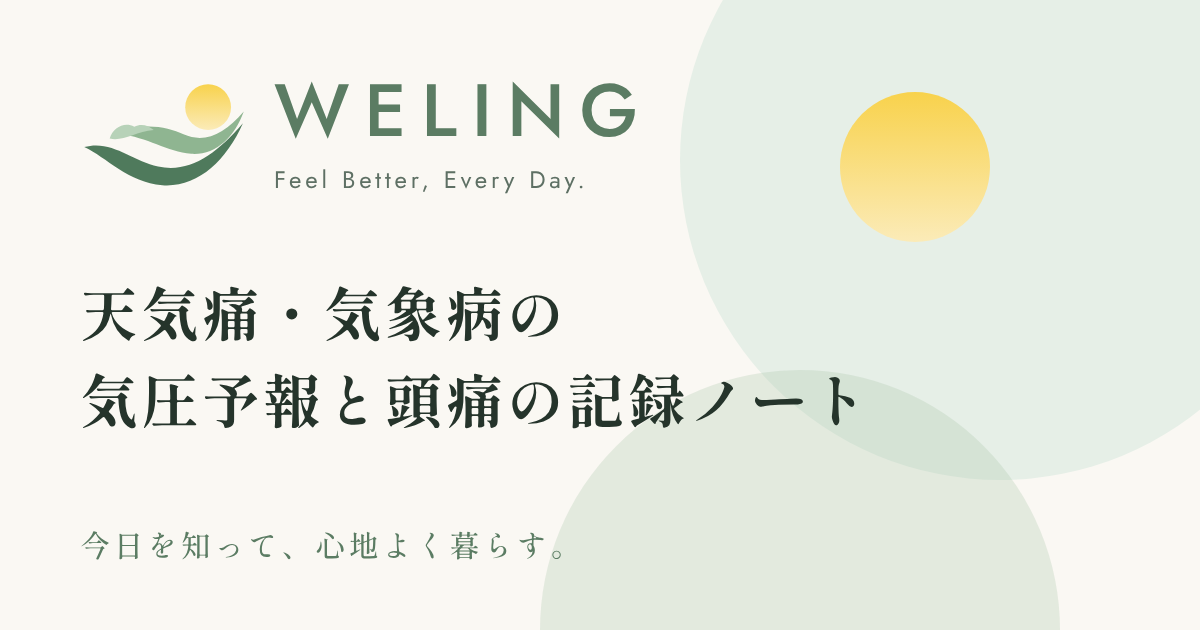
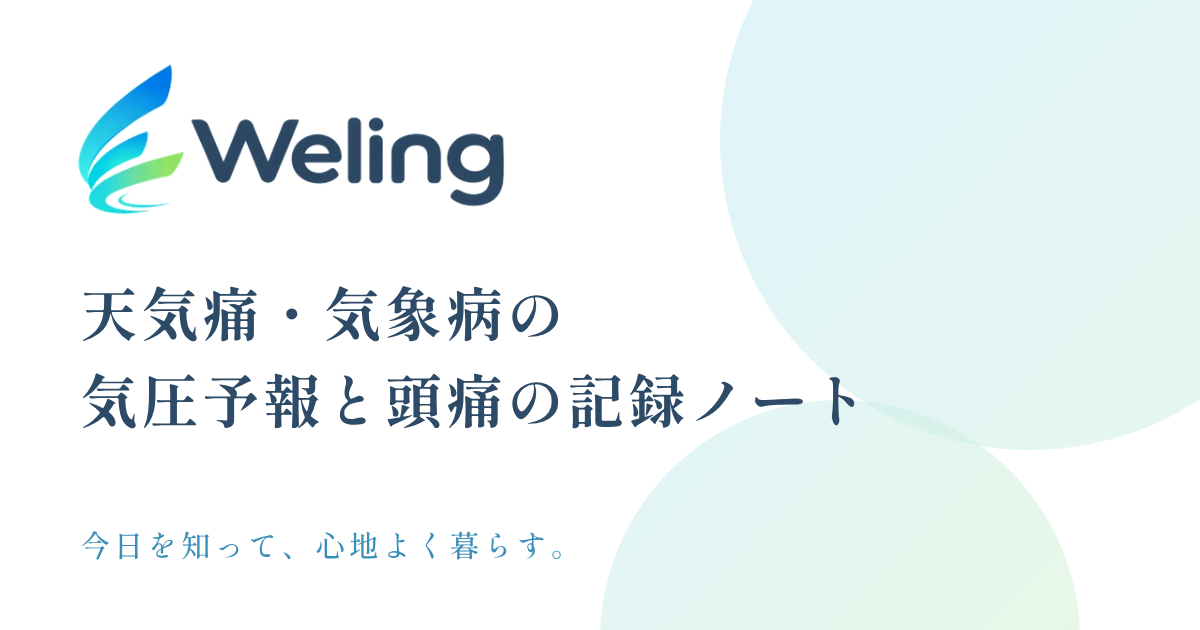
ロゴを新しいロゴ(Weling)に変更(ヘッダー・トップ・フッター・アイコン・manifest・OG画像)。トップの背景写真は変更なし
Claude-Session: https://claude.ai/code/session_01GABYT29VUZzXrt2vySzu7C

diff --git a/src/columns.js b/src/columns.js
@@ -21,7 +21,7 @@ export const COLUMNS = [
       { h: '不調が出やすいと言われる人' },
       { ul: ['乗り物酔いをしやすい人', '片頭痛などの頭痛持ちの人', 'めまいや耳鳴りの経験がある人', '首・肩のこりが強い人', '睡眠不足やストレスで自律神経が乱れやすい人'] },
       { h: '「気圧の変化」とはどのくらい？' },
-      { p: '台風や低気圧、前線が近づいたり、梅雨の時期に天気が崩れたりすると、気圧は大きく動きます。「WELING」では、1時間あたりの気圧の変化量を「上昇注意」「やや注意」「注意」「警戒」の4段階で表示しています。これは体調の変化に気づきやすくするための目安で、医学的な基準ではありません。' },
+      { p: '台風や低気圧、前線が近づいたり、梅雨の時期に天気が崩れたりすると、気圧は大きく動きます。「Weling」では、1時間あたりの気圧の変化量を「上昇注意」「やや注意」「注意」「警戒」の4段階で表示しています。これは体調の変化に気づきやすくするための目安で、医学的な基準ではありません。' },
       { h: '知っておきたい「海面気圧」の話' },
       { p: '天気予報で使われる気圧は、標高の影響を取り除いた「海面気圧」です。お住まいの場所の実際の気圧とは数値が異なりますが、「どのくらい上がったか・下がったか」という変化の傾向は同じように読み取れます。このアプリが見ているのも、数値そのものではなく変化の速さです。' },
       { warn: 'このコラムは一般的な情報です。診断や治療の代わりにはなりません。症状が強い・続く場合は医療機関に相談してください。' },
@@ -46,7 +46,7 @@ export const COLUMNS = [
       { ul: ['夕食は消化のよいものを、食べ過ぎない', 'アルコールやカフェインの摂り過ぎに注意', '朝食を抜かない（当日の朝に備える）', 'こまめに水分をとる'] },
       { h: '5. ぬるめのお風呂でゆっくり温まる' },
       { p: '熱すぎないお湯にゆっくり浸かると、体がほぐれ、リラックスしやすくなります。のぼせや湯冷めには気をつけましょう。' },
-      { note: '体調を記録しておくと、「どのくらいの気圧の変化のとき、自分は不調になりやすいか」が分かってきます。「WELING」の記録・分析機能を活用してください。気圧の変化が大きくなる時期は「[[tenkitsu-season|梅雨・台風・季節の変わり目の気圧パターン]]」も参考になります。' },
+      { note: '体調を記録しておくと、「どのくらいの気圧の変化のとき、自分は不調になりやすいか」が分かってきます。「Weling」の記録・分析機能を活用してください。気圧の変化が大きくなる時期は「[[tenkitsu-season|梅雨・台風・季節の変わり目の気圧パターン]]」も参考になります。' },
     ],
   },
   {
@@ -99,12 +99,12 @@ export const COLUMNS = [
   {
     slug: 'how-to-use-app',
     emoji: '📈',
-    title: '「WELING」の使い方：気圧の予報と頭痛の記録で、自分の傾向を知る',
+    title: '「Weling」の使い方：気圧の予報と頭痛の記録で、自分の傾向を知る',
     summary: '気圧の予報をチェックし、頭痛などの体調を記録すると、天気痛・気象病の不調が出やすい条件が見えてきます。アプリの活かし方を紹介します。',
     keywords: ['気圧', '頭痛', '天気痛', '気象病', '気圧予報'],
     readMin: 3,
     blocks: [
-      { p: '「WELING」は、気圧の変化を先回りで知り、頭痛などの体調を記録して、天気痛・気象病の自分の傾向を見つけるためのサービスです。' },
+      { p: '「Weling」は、気圧の変化を先回りで知り、頭痛などの体調を記録して、天気痛・気象病の自分の傾向を見つけるためのサービスです。' },
       { h: '気圧の変化は4段階で表示' },
       { p: '気圧の1時間あたりの変化量に応じて、グラフの背景色とアイコンで知らせます。' },
       { ul: ['上昇注意：1時間に +1.0hPa 以上の上昇', 'やや注意：1時間に −0.5〜−1.0hPa の低下', '注意：1時間に −1.0〜−1.5hPa の低下', '警戒：1時間に −1.5hPa 以上の急な低下'] },
@@ -136,7 +136,7 @@ export const COLUMNS = [
       { h: '相談先の例' },
       { p: '症状によって、内科、頭痛外来・脳神経内科、耳鼻咽喉科、心療内科など、相談先が異なります。どこにかかればよいか迷うときは、まずはかかりつけ医や内科に相談すると、必要に応じて専門の科を案内してもらえます。気象病・天気痛を専門に扱う外来を設けている医療機関もあります。' },
       { h: '受診のときに役立つこと' },
-      { p: '「いつ・どんな症状が・どのくらいの強さで出たか」「飲んだ薬」「そのときの天気」を伝えると、診察の助けになります。「WELING」の記録は、そのまま見せられる体調メモとして使えます。' },
+      { p: '「いつ・どんな症状が・どのくらいの強さで出たか」「飲んだ薬」「そのときの天気」を伝えると、診察の助けになります。「Weling」の記録は、そのまま見せられる体調メモとして使えます。' },
       { warn: '本コラムは一般的な情報で、診断や治療を目的としたものではありません。最新の情報や個別の判断は、医療機関や、厚生労働省など公的機関の情報で確認してください。' },
     ],
   },
@@ -156,7 +156,7 @@ export const COLUMNS = [
       { note: '頭痛のタイプは、自分で決めつけず、医療機関で診てもらうのがいちばん確実です。ここで紹介しているのは一般的な特徴で、人によって当てはまり方は異なります。' },
       { h: '気圧頭痛かどうか、考えるヒント' },
       { ol: ['頭痛が起きた日の天気や気圧の変化を、あとから見比べてみる', '「天気が崩れる前」「低気圧が通過している間」など、起きるタイミングに共通点があるか', '寝不足・飲酒・月経・空腹など、ほかの引き金が重なっていないか', '数回ではなく、数週間〜数か月分の記録で傾向を見る'] },
-      { p: '「WELING」では、記録した頭痛と、そのときの気圧・6時間前との差を一緒に見返せます（[[headache-diary|頭痛ダイアリーのつけ方]]も参考にしてください）。気圧の下がり始めに頭痛が出やすいかどうかを、自分の記録で確かめてみましょう。' },
+      { p: '「Weling」では、記録した頭痛と、そのときの気圧・6時間前との差を一緒に見返せます（[[headache-diary|頭痛ダイアリーのつけ方]]も参考にしてください）。気圧の下がり始めに頭痛が出やすいかどうかを、自分の記録で確かめてみましょう。' },
       { h: '気圧頭痛のときにできること' },
       { ul: ['痛みが軽いうちに休む、静かで暗い場所で過ごす', 'ズキズキするときは冷やす、こりが強いときは温める（悪化するならやめる）', '市販薬は用法・用量を守り、月に10日以上使うようなら医療機関へ'] },
       { p: '詳しくは「[[when-it-hurts|気圧で頭痛・不調を感じたら：その場でできるセルフケア]]」もご覧ください。' },
@@ -175,7 +175,7 @@ export const COLUMNS = [
       { h: '梅雨：ゆるやかな低気圧が長く続く' },
       { p: '梅雨前線が停滞する時期は、気圧の低い状態が続きやすく、湿度も高くなります。急な変化より「だらだらと続く不調」になりやすいと言われます。蒸し暑さによる睡眠の質の低下、冷房による冷えが重なることもあるため、室温や寝具の調整も大切です。' },
       { h: '台風：短時間で大きく下がる' },
-      { p: '台風が近づくと、数日かけて気圧が下がり、接近・通過で一気に変動することがあります。「WELING」の「注意」「警戒」の表示が出やすいのも、こうしたときです。通知や週間天気で数日前から様子を見て、前日の準備を始めましょう。' },
+      { p: '台風が近づくと、数日かけて気圧が下がり、接近・通過で一気に変動することがあります。「Weling」の「注意」「警戒」の表示が出やすいのも、こうしたときです。通知や週間天気で数日前から様子を見て、前日の準備を始めましょう。' },
       { h: '秋・春：低気圧と高気圧が入れ替わる' },
       { p: '春や秋は、低気圧と高気圧が数日おきに通り過ぎ、気圧が上がったり下がったりを繰り返します。気圧だけでなく気温差も大きく、体が休まりにくい時期です。気圧が「上がる」ときも変化は変化なので、「上昇注意」のときに不調が出る人もいます。' },
       { h: '冬：寒さと気圧の変化の両方' },
@@ -195,12 +195,12 @@ export const COLUMNS = [
     blocks: [
       { p: '天気痛・気象病の頭痛は、「いつもなんとなく気圧のせい」と思っていても、実際には睡眠や疲れなどほかの要因が大きいこともあります。気圧の変化と頭痛を記録して見比べる「頭痛ダイアリー」は、自分の傾向を知るのに役立ちます。' },
       { h: '残しておきたい項目' },
-      { ul: ['日時：いつ起きたか、どのくらい続いたか', '痛みの強さ：5段階など、自分で決めた目安で', '症状：頭痛のほか、めまい・吐き気・だるさ・肩こりなど', '飲んだ薬：名前と時刻、効いたかどうか', '気圧と天気：「WELING」では記録時の気圧と6時間前との差が自動で付きます', 'ほかの要因：睡眠時間、飲酒、月経、空腹、強いストレスなど'] },
+      { ul: ['日時：いつ起きたか、どのくらい続いたか', '痛みの強さ：5段階など、自分で決めた目安で', '症状：頭痛のほか、めまい・吐き気・だるさ・肩こりなど', '飲んだ薬：名前と時刻、効いたかどうか', '気圧と天気：「Weling」では記録時の気圧と6時間前との差が自動で付きます', 'ほかの要因：睡眠時間、飲酒、月経、空腹、強いストレスなど'] },
       { h: '続けるコツ' },
       { ul: ['完璧を目指さず、「痛みの強さ」と「日時」だけでも残す', '軽い不調も記録する（強い痛みだけだと傾向が見えにくい）', '気づいたその場で、スマートフォンから数タップで済ませる'] },
       { h: '見返すときのポイント' },
       { ol: ['気圧が下がっている最中か、下がり始めか、下がったあとか', '同じような気圧の変化でも、起きる日と起きない日の違いは何か', '睡眠不足など、気圧以外が重なっている日が多くないか', '月単位で見て、痛む日が増えていないか'] },
-      { p: '「WELING」の分析では、記録が5件以上たまると、「気圧が3時間で1hPa以上下がったときに不調が起きやすいか」などの傾向を簡易的に表示します。あくまで目安として使ってください。' },
+      { p: '「Weling」の分析では、記録が5件以上たまると、「気圧が3時間で1hPa以上下がったときに不調が起きやすいか」などの傾向を簡易的に表示します。あくまで目安として使ってください。' },
       { h: '受診のときに役立つ' },
       { p: '診察では、「いつ・どんな頭痛が・どのくらいの強さで・何日続くか」「飲んだ薬」が重要な手がかりになります。記録をそのまま見せると、説明が伝わりやすくなります。受診の目安は「[[when-to-see-doctor|気圧頭痛・天気痛、こんなときは受診を]]」をご覧ください。' },
       { warn: '記録の傾向だけで、病気の診断や薬の調整を自分で判断しないでください。気になる変化があるときは、医療機関に相談しましょう。' },
@@ -244,7 +244,7 @@ export const COLUMNS = [
       { note: 'ここに挙げたのは一般的な目安です。実際の診療体制は医療機関によって異なるため、受診前に確認すると安心です。' },
       { h: '受診前に準備しておくと役立つこと' },
       { ul: ['いつ、どんな症状が、どのくらいの強さで出たか', '飲んだ薬の名前と、効いたかどうか', '症状が出たときの天気や気圧の変化', 'ほかに持病や、普段飲んでいる薬があるか'] },
-      { p: '[[headache-diary|頭痛ダイアリー]]のように記録しておくと、診察の場で説明しやすくなります。「WELING」の記録には、そのときの気圧と6時間前との差が自動で付くので、そのまま見せられます。' },
+      { p: '[[headache-diary|頭痛ダイアリー]]のように記録しておくと、診察の場で説明しやすくなります。「Weling」の記録には、そのときの気圧と6時間前との差が自動で付くので、そのまま見せられます。' },
       { warn: '「突然の、経験したことのない激しい頭痛」「ろれつが回らない」「手足に力が入らない」などのときは、診療科を選ぶ前に、救急車（119番）の利用も含めて、すぐに受診してください。詳しくは[[when-to-see-doctor|気圧頭痛・天気痛、こんなときは受診を]]をご覧ください。' },
     ],
   },
@@ -305,7 +305,7 @@ export const COLUMNS = [
       { ul: ['眠気・だるさ：無理せず休む、朝は光を浴びる、軽く体を動かす', 'めまい・ふらつき：転倒しないよう、いったん座るか横になる。急に立ち上がらない', '吐き気：水分を少しずつとる、静かに休む', '首・肩のこり：温めて、軽くストレッチする'] },
       { p: '頭痛も含めて、[[when-it-hurts|その場でできるセルフケア]]や、[[daily-habits|毎日の生活習慣]]を整えることが役立つことがあります。' },
       { h: '記録して、自分のパターンを知る' },
-      { p: '症状が出た日の気圧の動きを記録しておくと、「気圧が下がり始めた頃に眠くなる」など、自分の傾向が見えてきます。「WELING」では、頭痛以外の症状もタグで記録できます。' },
+      { p: '症状が出た日の気圧の動きを記録しておくと、「気圧が下がり始めた頃に眠くなる」など、自分の傾向が見えてきます。「Weling」では、頭痛以外の症状もタグで記録できます。' },
       { warn: 'めまいが繰り返す、耳鳴りや聞こえにくさがある、ろれつが回らない、手足に力が入らない、といったときは、気象病と決めつけず、医療機関を受診してください。目安は[[when-to-see-doctor|気圧頭痛・天気痛、こんなときは受診を]]をご覧ください。' },
     ],
   },
@@ -325,7 +325,7 @@ export const COLUMNS = [
       { ul: ['古傷（過去のけがや手術の跡）の痛み・うずき', '膝・肩・腰などの関節の痛みや、こわばり', '首・肩のこり', '神経の痛みや、しびれのような感覚'] },
       { h: 'できること' },
       { ul: ['痛みの出る部位を、無理のない範囲で温める、またはやさしくほぐす', '気圧が下がる前日は、無理な運動や予定を控えめにする（[[day-before|前日にできる5つの準備]]）', '痛みが出た日の天気・気圧と、痛む部位を記録する'] },
-      { p: '記録は、[[headache-diary|頭痛ダイアリー]]と同じ要領で、「痛む部位」「強さ」「そのときの気圧」を残すと、傾向が見えてきます。「WELING」では、メモ欄に部位を書いておくこともできます。' },
+      { p: '記録は、[[headache-diary|頭痛ダイアリー]]と同じ要領で、「痛む部位」「強さ」「そのときの気圧」を残すと、傾向が見えてきます。「Weling」では、メモ欄に部位を書いておくこともできます。' },
       { warn: '痛みが強い、腫れや熱がある、夜も眠れない、しびれや力が入らない症状があるときは、天気のせいと決めつけず、整形外科などの医療機関に相談してください。' },
     ],
   },
@@ -343,7 +343,7 @@ export const COLUMNS = [
       { h: '2. 前線が通過するパターン' },
       { p: '暖かい空気と冷たい空気の境目である前線が通ると、雨が降りやすく、気圧も変化します。梅雨前線や秋雨前線のように前線が停滞すると、気圧の低い状態や、小刻みな変化が続きます。こうしたときは、急な変化より「だらだら続く不調」になりやすいと言われます。詳しくは[[tenkitsu-season|梅雨・台風・季節の変わり目の気圧パターン]]をご覧ください。' },
       { h: '3. 台風・急速に発達する低気圧のパターン' },
-      { p: '台風や、短時間で急速に発達する低気圧は、気圧が数時間から1日のうちに大きく下がることがあります。「WELING」の「注意」「警戒」が表示されやすいのも、このパターンのときです。[[typhoon-headache|台風が近づくと頭痛がするのはなぜ？]]もあわせてご覧ください。' },
+      { p: '台風や、短時間で急速に発達する低気圧は、気圧が数時間から1日のうちに大きく下がることがあります。「Weling」の「注意」「警戒」が表示されやすいのも、このパターンのときです。[[typhoon-headache|台風が近づくと頭痛がするのはなぜ？]]もあわせてご覧ください。' },
       { h: '4. 高気圧と低気圧が入れ替わるパターン' },
       { p: '春や秋は、移動性高気圧と低気圧が数日おきに日本付近を通ります。そのため、気圧が上がったり下がったりを繰り返し、気温差も大きくなります。気圧が「上がる」ときも変化の大きさは同じなので、「上昇注意」のときに不調が出る人もいます。' },
       { h: '日常にもある小さな気圧の変化' },

diff --git a/src/pages.js b/src/pages.js
@@ -10,7 +10,7 @@ import { PREFS, REGIONS, regionOf, neighbors } from './prefectures.js';
 export const esc = (s) => String(s).replace(/[&<>"']/g, (c) => ({ '&': '&amp;', '<': '&lt;', '>': '&gt;', '"': '&quot;', "'": '&#39;' })[c]);
 
 const SITE = SITE_NAME;
-const SITE_TITLE = 'WELING'; // <title>・og:site_name・構造化データのサイト名(表示上のロゴ・本文は「WELING」)
+const SITE_TITLE = 'Weling'; // <title>・og:site_name・構造化データのサイト名(表示上のロゴ・本文は「Weling」)
 const TAGLINE = '気圧と体調のノート';
 // トップのHERO背景をランダムに選ぶ（描画前に実行）。直前に見たものとは別の写真にする。?hero=0|1|2 で固定表示も可能。
 // 写真ごとに、文字が読めるよう暗いオーバーレイの色・濃さ(a=[上,中,下])と、画面に見せたい位置(p)を設定している。
@@ -67,7 +67,7 @@ const STREET_SCRIPT = `<script>
 })();
 </script>`;
 
-const LOGO = '<span class="ln"><b>WELING</b><small>Feel Better, Every Day.</small></span>';
+const LOGO = '<img class="logo-img" src="/logo-h.webp" alt="Weling" width="102" height="36">';
 
 const NAV = [
   ['/', 'トップ', 'top'],
@@ -107,8 +107,8 @@ ${page === 'none' ? '<meta name="robots" content="noindex">\n' : ''}${jsonLd(jso
 <link rel="preconnect" href="https://fonts.googleapis.com">
 <link rel="preconnect" href="https://fonts.gstatic.com" crossorigin>
 ${chrome ? DS_FONTS : TOP_FONTS}
-<link rel="icon" href="/icon.svg" type="image/svg+xml">
 <link rel="icon" href="/favicon-32.png" sizes="32x32" type="image/png">
+<link rel="icon" href="/icon-192.png" sizes="192x192" type="image/png">
 <link rel="apple-touch-icon" href="/apple-touch-icon.png">
 <link rel="manifest" href="/manifest.json">
 ${chrome ? '<link rel="stylesheet" href="/ds.css">\n<link rel="stylesheet" href="/header.css">\n' : ''}<link rel="stylesheet" href="/site.css">
@@ -118,7 +118,7 @@ ${chrome ? '<link rel="stylesheet" href="/ds-pages.css">\n' : ''}${extraHead}
 <body data-page="${page}" class="${[chrome ? 'ds' : '', bodyClass].filter(Boolean).join(' ')}">
 ${chrome ? `<header class="site-h">
   <div class="wrap h-in">
-    <a class="logo" href="/" aria-label="WELING トップへ"><img src="/mark.svg" alt="" width="54" height="36">${LOGO}</a>
+    <a class="logo" href="/" aria-label="Weling トップへ">${LOGO}</a>
     ${page === 'app' ? '<span id="demoBadge" class="badge" hidden>デモデータ</span>' : ''}
   </div>
   <nav class="wrap nav" aria-label="メインメニュー">
@@ -132,7 +132,7 @@ ${body}
 ${chrome ? `<footer class="site-f">
   <div class="street" data-street aria-hidden="true"></div>
   <div class="wrap">
-    <p class="f-logo">WELING</p>
+    <p class="f-logo"><img src="/logo-h-white.webp" alt="Weling" width="114" height="40"></p>
     <p>本サービスの気圧データは海面気圧の変動傾向を示す目安であり、絶対値の保証や医学的な診断を提供するものではありません。</p>
     <p><a href="/terms.html">利用規約・プライバシー</a> ・ <a href="/about">サービス紹介</a> ・ <a href="/columns">コラム</a> ・ <a href="/weather">週間天気</a> ・ <a href="/today">今日の気圧</a> ・ <a href="/pressure">都道府県別の気圧</a> ・ <a href="/check">気象病セルフチェック</a> ・ <a href="/glossary">用語集</a> ・ <a href="/app/">気圧・記録</a></p>
     <p class="muted">天気: 気象庁 / OpenWeatherMap　© ${SITE}</p>
@@ -176,7 +176,7 @@ export function topPage() {
 <div class="stage">
   <aside class="side" aria-label="サイト紹介">
     <div class="side-top">
-      <a class="side-logo" href="/" aria-label="WELING トップへ"><img src="/mark-white.svg" alt="" width="126" height="84"><span class="brand-ln"><b>WELING</b><small>Feel Better, Every Day.</small></span></a>
+      <a class="side-logo" href="/" aria-label="Weling トップへ"><img src="/logo-h-white.webp" alt="Weling" width="199" height="70"></a>
       <p class="side-title" aria-hidden="true">気圧の変化を、<br>先回りで知る。</p>
     </div>
     <div class="side-copy">
@@ -199,11 +199,9 @@ export function topPage() {
   <div class="phone" id="phone">
     <section class="m-hero" aria-labelledby="hero-title">
       <nav class="m-nav" aria-label="メインメニュー"><a href="/weather">週間天気</a><a href="/columns">コラム</a><a class="m-app" href="/app/">気圧・記録へ</a></nav>
-      <h1 id="hero-title" class="m-title">気圧の変化を、<br>先回りで知る。<span class="sr-only">（WELING：天気痛・気象病の気圧予報と頭痛の記録ノート）</span></h1>
+      <h1 id="hero-title" class="m-title">気圧の変化を、<br>先回りで知る。<span class="sr-only">（Weling：天気痛・気象病の気圧予報と頭痛の記録ノート）</span></h1>
       <div class="m-brand">
-        <img src="/mark-white.svg" alt="" width="84" height="56">
-        <span class="m-word">WELING</span>
-        <span class="m-read">Feel Better, Every Day.</span>
+        <img src="/logo-v-white.webp" alt="Weling" width="143" height="190">
         <span class="m-tag">今日を知って、心地よく暮らす。</span>
       </div>
       <a class="m-scroll" href="#today" aria-label="下へスクロール">SCROLL</a>
@@ -240,7 +238,7 @@ export function topPage() {
     <section class="sx teal" id="features" aria-labelledby="t-three">
       <div class="sx-in">
         ${secHead2('Three Features', '三つの機能', 't-three')}
-        <p class="center-copy">WELINGは、週間天気、気圧・記録、コラムの<br>三つで、気圧との付き合いを支えます。</p>
+        <p class="center-copy">Welingは、週間天気、気圧・記録、コラムの<br>三つで、気圧との付き合いを支えます。</p>
         <a class="feat" href="/weather" style="--img: url('/hero/bg/mist.webp'); --pos: 30% 50%"><span class="en">WEEKLY FORECAST</span><b>週間天気</b><span class="d">1週間の天気と、気圧が下がる日の目安</span></a>
         <a class="feat" href="/app/" style="--img: url('/hero/bg/dusk.webp'); --pos: 41% 40%"><span class="en">PRESSURE &amp; LOG</span><b>気圧・記録</b><span class="d">気圧グラフに、体調の記録を重ねて見る</span></a>
         <a class="feat" href="/columns" style="--img: url('/hero/bg/sea.webp'); --pos: 58% 58%"><span class="en">COLUMN</span><b>コラム</b><span class="d">天気痛・気象病・気圧頭痛の対策</span></a>
@@ -284,7 +282,7 @@ export function topPage() {
         ${person('suitcase', { k: 0.5, cls: 'fig-tr' })}
         ${secHead2('Information', 'サービス情報', 't-info')}
         <dl class="info">
-          <div><dt>サービス名</dt><dd>WELING</dd></div>
+          <div><dt>サービス名</dt><dd>Weling</dd></div>
           <div><dt>できること</dt><dd>気圧の予報、週間天気、体調の記録、傾向の分析、前夜の通知</dd></div>
           <div><dt>データ</dt><dd>天気：気象庁、気圧予報：OpenWeatherMap</dd></div>
           <div><dt>対応地域</dt><dd>全国47都道府県</dd></div>
@@ -307,11 +305,11 @@ export function topPage() {
     </section>
 
     <footer class="lp-f">
-      <p class="f-logo">WELING</p>
+      <p class="f-logo"><img src="/logo-h-white.webp" alt="Weling" width="114" height="40"></p>
       <nav class="lp-f-nav">${footNav}</nav>
       <p>本サービスの気圧データは海面気圧の変動傾向を示す目安であり、絶対値の保証や医学的な診断を提供するものではありません。</p>
       <p><a href="/terms.html">利用規約・プライバシー</a></p>
-      <p class="muted">天気: 気象庁 / OpenWeatherMap　© WELING</p>
+      <p class="muted">天気: 気象庁 / OpenWeatherMap　© Weling</p>
     </footer>
   </div>
 </div>`;
@@ -680,7 +678,7 @@ const ABOUT_FAQ = [
 
 export function aboutPage() {
   const body = `
-<div class="page-head has-ppl"><div class="wrap"><p class="en">ABOUT</p><h1>WELINGとは</h1><p>気圧と体調のノート。天気で揺れる体調を、記録と予報でやさしく支えるWebアプリです。</p></div><div class="pg-ppl" aria-hidden="true">${person('reading', { k: 0.5 })}</div></div>
+<div class="page-head has-ppl"><div class="wrap"><p class="en">ABOUT</p><h1>Welingとは</h1><p>気圧と体調のノート。天気で揺れる体調を、記録と予報でやさしく支えるWebアプリです。</p></div><div class="pg-ppl" aria-hidden="true">${person('reading', { k: 0.5 })}</div></div>
 <div class="wrap about">
 <section><h2 class="en-h">WHAT YOU CAN DO<small>できること</small></h2>
 <div class="ab-verbs">${ABOUT_VERBS.map(([v, en, t, d, ic], i) => `<article class="ab-verb"><span class="ic">${ic}</span><p class="en">${en}</p><h3>${i + 1}. ${esc(v)}</h3><b>${esc(t)}</b><p>${esc(d)}</p></article>`).join('')}</div></section>
@@ -698,7 +696,7 @@ ${ABOUT_SHOTS.map(([n, no, t, d, li], i) => `<div class="ab-shot${i % 2 ? ' rev'
 </div>`;
   return layout({
     rawTitle: `${SITE_TITLE}とは｜天気痛・気象病の気圧予報と頭痛の記録アプリ`,
-    description: 'WELINGは、天気痛・気象病・気圧による頭痛に備える無料のWebアプリ。気圧予報、前日の通知、頭痛や体調の記録と分析の機能、使い方、よくある質問を紹介します。',
+    description: 'Welingは、天気痛・気象病・気圧による頭痛に備える無料のWebアプリ。気圧予報、前日の通知、頭痛や体調の記録と分析の機能、使い方、よくある質問を紹介します。',
     keywords: COLUMN_KEYWORDS,
     page: 'about',
     path: '/about',

diff --git a/public/terms.html b/public/terms.html
@@ -1,8 +1,7 @@
 <!doctype html>
 <html lang="ja"><head><meta charset="utf-8"><meta name="viewport" content="width=device-width, initial-scale=1, viewport-fit=cover">
 <meta name="theme-color" content="#FAF8F3">
-<title>利用規約・プライバシー | WELING</title>
-<link rel="icon" href="/icon.svg" type="image/svg+xml">
+<title>利用規約・プライバシー | Weling</title>
 <link rel="icon" href="/favicon-32.png" sizes="32x32" type="image/png">
 <link rel="apple-touch-icon" href="/apple-touch-icon.png">
 <link rel="preconnect" href="https://fonts.googleapis.com">
@@ -17,7 +16,7 @@
 <body>
 <header class="site-h">
   <div class="wrap h-in">
-    <a class="logo" href="/" aria-label="WELING トップへ"><img src="/mark.svg" alt="" width="54" height="36"><span class="ln"><b>WELING</b><small>Feel Better, Every Day.</small></span></a>
+    <a class="logo" href="/" aria-label="Weling トップへ"><img class="logo-img" src="/logo-h.webp" alt="Weling" width="102" height="36"></a>
     <a class="h-app" href="/app/">気圧・記録へ</a>
   </div>
   <nav class="wrap nav" aria-label="メインメニュー">
@@ -31,7 +30,7 @@
 <div class="card">
 <h1>利用規約・プライバシー</h1>
 <h2>1. サービスの目的</h2>
-<p>WELING（以下「本サービス」）は、公開されている気象データを用いて気圧の変化を表示し、利用者自身による体調の記録・振り返りを支援するものです。</p>
+<p>Weling（以下「本サービス」）は、公開されている気象データを用いて気圧の変化を表示し、利用者自身による体調の記録・振り返りを支援するものです。</p>
 <h2>2. 免責事項</h2>
 <ul>
 <li>オープンAPIの気圧データは、標高や局地的な地形の影響を完全には反映できない場合があります。</li>

diff --git a/public/brand.css b/public/brand.css
@@ -80,3 +80,11 @@ input, select, textarea, .ds select, .ds input, .ds textarea { border-radius: 12
   .brand-ln small { font-size: 11.5px; letter-spacing: .14em; margin-top: 8px; }
 }
 .m-brand img { height: 78px; margin-bottom: 12px; }
+
+/* 新ロゴ(Weling): 画像のロゴを使う */
+.site-h .logo img.logo-img { height: 36px; width: auto; border-radius: 0; }
+.site-h .logo { gap: 0; }
+.side-logo img { height: 70px; width: auto; filter: drop-shadow(0 1px 6px rgba(0, 0, 0, .25)); }
+.m-brand img { height: 190px; width: auto; margin-bottom: 14px; }
+.f-logo img, .lp-f .f-logo img, .site-f .f-logo img { height: 40px; width: auto; display: block; }
+.site-f .f-logo, .lp-f .f-logo { margin-bottom: 10px; }

diff --git a/public/sw.js b/public/sw.js
@@ -1,6 +1,6 @@
 // アプリシェルのキャッシュ + FCM(Web Push)の受信
-const CACHE = 'kiatsu-shell-v61';
-const SHELL = ['/app/', '/style.css', '/ds.css', '/header.css', '/brand.css', '/app.js', '/wx.js', '/faces.js', '/manifest.json', '/terms.html', '/hero/hero.js', '/hero/hero.css', '/icon.svg', '/vendor/chart.js'];
+const CACHE = 'kiatsu-shell-v62';
+const SHELL = ['/app/', '/style.css', '/ds.css', '/header.css', '/brand.css', '/app.js', '/wx.js', '/faces.js', '/manifest.json', '/terms.html', '/hero/hero.js', '/hero/hero.css', '/vendor/chart.js'];
 
 self.addEventListener('install', (e) => {
   e.waitUntil(caches.open(CACHE).then((c) => c.addAll(SHELL)).then(() => self.skipWaiting()));

diff --git a/src/siteconfig.js b/src/siteconfig.js
@@ -1,4 +1,4 @@
 // サイトの公開URL。独自ドメインに移すときは、ここを書き換えるだけで canonical・sitemap・OGP・構造化データが切り替わる。
 export const SITE_URL = 'https://shiftcast.eshimi.workers.dev';
-export const SITE_NAME = 'WELING';
+export const SITE_NAME = 'Weling';
 export const OG_IMAGE = '/og.png';

diff --git a/README.md b/README.md
@@ -1,4 +1,4 @@
-# shiftcast（WELING：気圧と体調のノート）
+# shiftcast（Weling：気圧と体調のノート）
 気圧の変化と体調を記録して気象病を予防する、スマホ向けPWA。Cloudflare Workers + D1 で動作します。
 
 - 気象: OpenWeatherMap（3時間毎）/ 気象庁アメダス実況（最寄り観測所の海面気圧）
